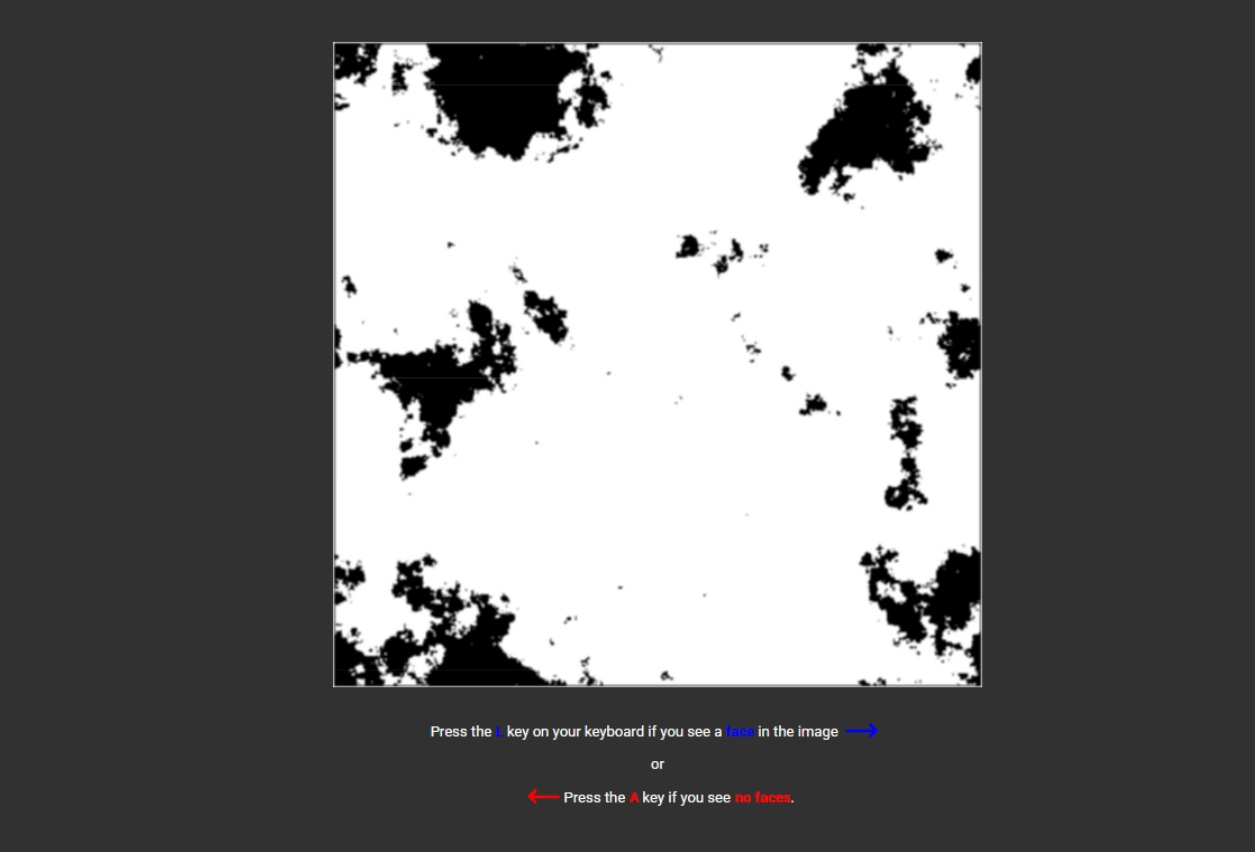
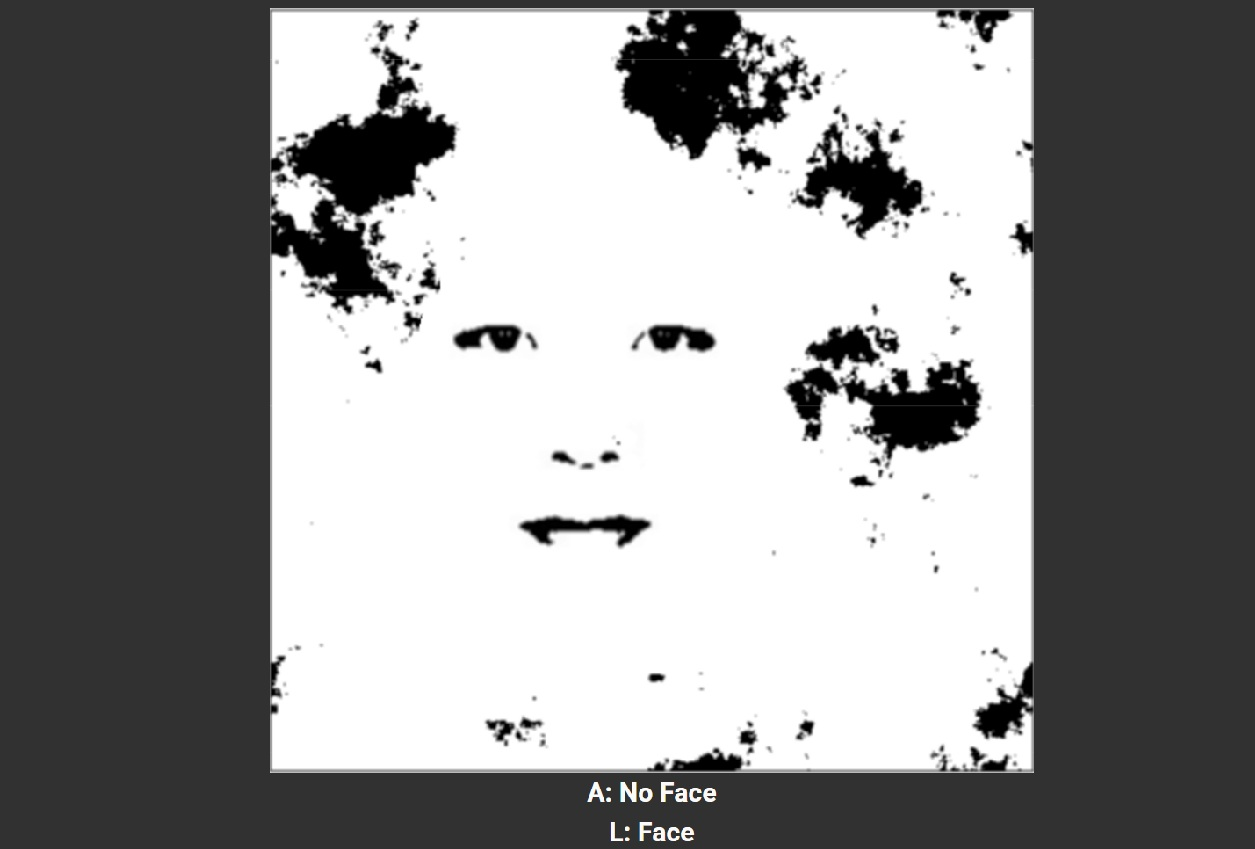
fix: update descripition text and change font sizes

diff --git a/src/modules/experiment/jspsych/practice.ts b/src/modules/experiment/jspsych/practice.ts
@@ -110,7 +110,7 @@ export const practiceTrials: (
       stimulus() {
         const html = `<div>
             <div class="task-img"><img class="task-img" id="task-img" src='./assets/pareidolia-imgs/practice/pareidolia-practice-${jsPsych.evaluateTimelineVariable('num') > 9 ? jsPsych.evaluateTimelineVariable('num') : `0${jsPsych.evaluateTimelineVariable('num')}`}.jpg' alt='task image'/></div>
-            <div><br>Press the <b style='color:blue;'>L</b> key on your keyboard if you see a <b style='color:blue;'>face</b> in the image <svg class='right-arrow' style='width: 48px; height: 48px; fill: blue;'xmlns='http://www.w3.org/2000/svg' viewBox='0 0 16 16'><path fill-rule='evenodd' d='M10.146 4.646a.5.5 0 0 1 .708 0l2.646 2.647-2.646 2.646a.5.5 0 0 1-.708-.707L11.293 8H2a.5.5 0 0 1 0-1h9.293L10.146 5.354a.5.5 0 0 1 0-.708z'/></svg><br>or<br><svg class='left-arrow' style='width: 48px; height: 48px; fill: red;' xmlns='http://www.w3.org/2000/svg' viewBox='0 0 16 16'><path fill-rule='evenodd' d='M5.854 4.646a.5.5 0 0 0-.708 0L2.5 7.293l2.646 2.647a.5.5 0 0 0 .708-.707L4.707 8H14a.5.5 0 0 0 0-1H4.707l1.147-1.146a.5.5 0 0 0 0-.708z'/></svg>Press the <b style='color:red;'>A</b> key if you see <b style='color:red;'>no faces</b>.</div>
+            <div class="task-text"><b>A: No Face</b><br /><b>L: Face</b></div>
             <div class='photo-diode photo-diode-white ${usePhotoDiode === 'top-left' ? 'top-left' : 'top-right'} ${usePhotoDiode === 'off' ? 'photo-diode-hide' : ''}'/>
           </div>`;
         return html;

diff --git a/src/modules/experiment/jspsych/experiment.ts b/src/modules/experiment/jspsych/experiment.ts
@@ -247,7 +247,7 @@ const partofexp: (
       stimulus() {
         const html = `<div>
           <div class="task-img"><img class="task-img" id="task-img" src='./assets/pareidolia-imgs/test/pareidolia-test-${jsPsych.evaluateTimelineVariable('num') > 9 ? jsPsych.evaluateTimelineVariable('num') : `0${jsPsych.evaluateTimelineVariable('num')}`}.jpg' alt='task image'/></div>
-          <div><br>Press the <b style='color:blue;'>L</b> key on your keyboard if you see a <b style='color:blue;'>face</b> in the image <svg class='right-arrow' style='width: 48px; height: 48px; fill: blue;'xmlns='http://www.w3.org/2000/svg' viewBox='0 0 16 16'><path fill-rule='evenodd' d='M10.146 4.646a.5.5 0 0 1 .708 0l2.646 2.647-2.646 2.646a.5.5 0 0 1-.708-.707L11.293 8H2a.5.5 0 0 1 0-1h9.293L10.146 5.354a.5.5 0 0 1 0-.708z'/></svg><br>or<br><svg class='left-arrow' style='width: 48px; height: 48px; fill: red;' xmlns='http://www.w3.org/2000/svg' viewBox='0 0 16 16'><path fill-rule='evenodd' d='M5.854 4.646a.5.5 0 0 0-.708 0L2.5 7.293l2.646 2.647a.5.5 0 0 0 .708-.707L4.707 8H14a.5.5 0 0 0 0-1H4.707l1.147-1.146a.5.5 0 0 0 0-.708z'/></svg>Press the <b style='color:red;'>A</b> key if you see <b style='color:red;'>no faces</b>.</div>
+          <div class="task-text"><b>A: No Face</b><br /><b>L: Face</b></div>
           <div class='photo-diode photo-diode-white ${usePhotoDiode === 'top-left' ? 'top-left' : 'top-right'} ${usePhotoDiode === 'off' ? 'photo-diode-hide' : ''}'/>
         </div>`;
         return html;

diff --git a/src/modules/experiment/jspsych/setup.ts b/src/modules/experiment/jspsych/setup.ts
@@ -5,6 +5,8 @@ import jsPsychSurveyHtmlForm from '@jspsych/plugin-survey-html-form';
 import i18next from 'i18next';
 import { DataCollection, JsPsych } from 'jspsych';
 
+import { defaultImageSize } from '@/modules/config/appSettings';
+
 // eslint-disable-next-line prettier/prettier
 import { type ConnectType, type DeviceType, type Timeline } from './experiment';
 // eslint-disable-next-line prettier/prettier
@@ -177,7 +179,7 @@ export function setSizes(
 ): void {
   const style: HTMLElement =
     document.getElementById('scaling') || document.createElement('style');
-  const widthPixels: number = scalingFactor * 700;
+  const widthPixels: number = scalingFactor * defaultImageSize;
   style.id = 'scaling';
   style.innerHTML = `.task-img, vid {
         width: ${widthPixels}px; 

diff --git a/src/modules/settings/SettingsView.tsx b/src/modules/settings/SettingsView.tsx
@@ -28,6 +28,7 @@ import {
   NextStepSettings,
   PhotoDiodeSettings,
   SequencingSettings,
+  defaultImageSize,
 } from '../config/appSettings';
 import { useSettings } from '../context/SettingsContext';
 import NextStepSettingsView from './NextStepSettings';
@@ -335,7 +336,7 @@ const SettingsView: FC = () => {
                 onFinish: (data: DataCollection) => {
                   setConfiguration({
                     ...configuration,
-                    hardImageSize: `${(10 / data.values()[0].response.input) * 700}px`,
+                    hardImageSize: `${(10 / data.values()[0].response.input) * defaultImageSize}px`,
                   });
                   setCalibrationModalOpen(false);
                 },

diff --git a/src/styles/main.scss b/src/styles/main.scss
@@ -11,11 +11,11 @@
 }
 
 [data-font-size='large'] {
-  --font-scale: 1.2;
+  --font-scale: 1.5;
 }
 
 [data-font-size='extra-large'] {
-  --font-scale: 1.5;
+  --font-scale: 2;
 }
 
 /* Apply font-size scaling to elements */
@@ -260,6 +260,11 @@ button:hover {
 
 .task-img {
   margin: 0 auto;
+}
+
+.task-text {
+  font-size: calc(var(--font-scale) * 30px);
+  line-height: calc(var(--font-scale) * 40px);
 }
 
 .right-arrow {

diff --git a/src/modules/config/appSettings.ts b/src/modules/config/appSettings.ts
@@ -45,3 +45,5 @@ export type NextStepSettings = {
   link: string;
   linkText: string;
 };
+
+export const defaultImageSize = 580;
